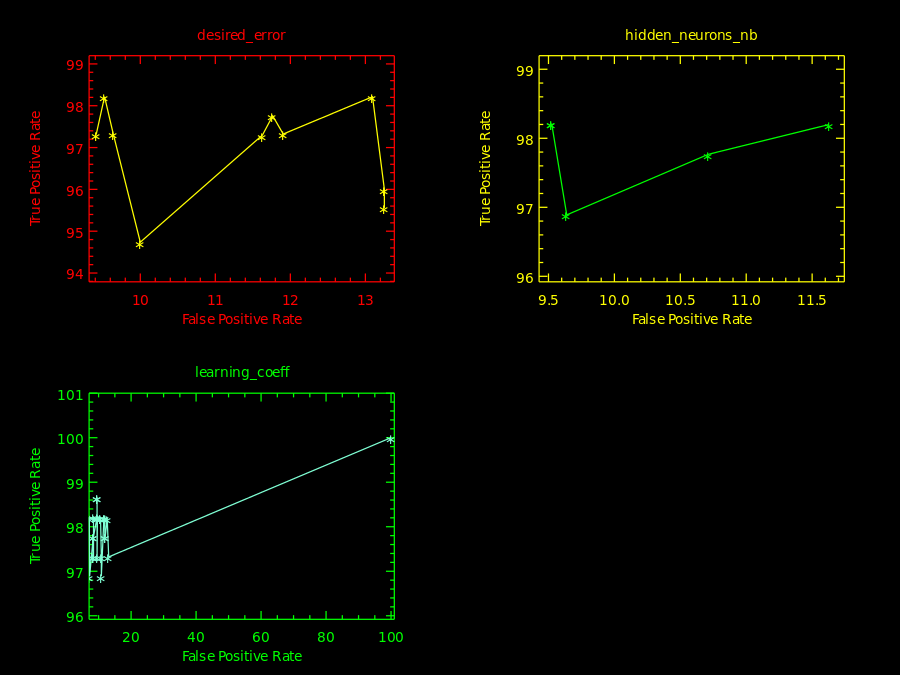
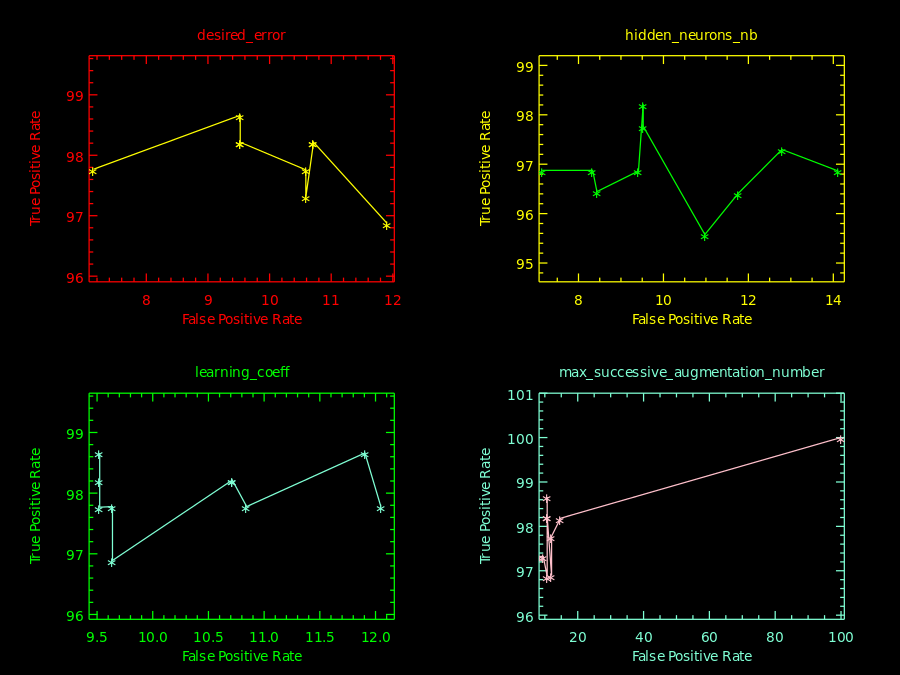
Added C3.js visualisation to the README

diff --git a/README.md b/README.md
@@ -1,8 +1,6 @@
 # neural-network
 Authors : Slim BOUAOUINA - Thomas VILLE
 
-Learn to detect malware with neural network.
-
 The main goal of this project is to find the best parameters for a neural network which purpose is to detect malicious software.
 
 ## Features
@@ -12,6 +10,7 @@ The main goal of this project is to find the best parameters for a neural networ
  * Creates an SVG image containing a ROC curve showing the efficiency of the NN for the different parameters.
  * Detects inconsistent parameters.
  * Parallel processing of the test cases.
+ * Pretty visualisation with C3.js
 
 ### Resource usage
 In order not to fill up your computer's memory, only 8 tests are performed simultaneously.
@@ -23,9 +22,14 @@ Here is an example of a ROC curve produced by the program :
 
 ![ROC curve example](doc/roc-curve.png)
 
+If you have a python setup, you can also run `make view` in the main directory and go to the URL with a web browser to have a better view of each parameter.
+
+![ROC curve with C3.js](doc/Visualisation.png)
+
 ## Dependencies
  * FANN >= 2.2
  * plplot
+ * Python 2.7
 
 ## Documentation
 ### How to add a new test parameter
